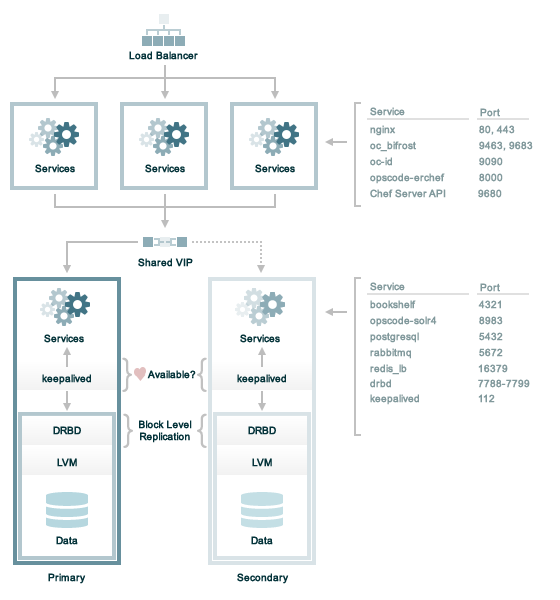
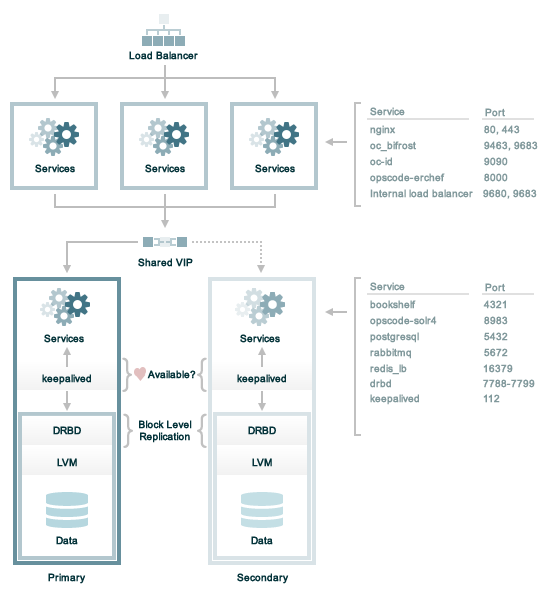
add diagrams; hook in tiered

Changed region(s): [[0.6679, 0.18, 0.9714, 0.33], [0.85, 0.45, 0.9714, 0.69]]

diff --git a/chef_master/source/server_firewalls_and_ports.rst b/chef_master/source/server_firewalls_and_ports.rst
@@ -8,11 +8,19 @@ Firewalls and Ports
 
 Standalone
 =====================================================
+The following sections describe the ports that are required by the |chef server| in a standalone configuration:
+
+.. image:: ../../images/chef_server_ports_standalone.png
+
+.. include:: ../../includes_server_firewalls_and_ports/includes_server_firewalls_and_ports_loopback.rst
+
 .. include:: ../../includes_server_firewalls_and_ports/includes_server_firewalls_and_ports_standalone.rst
 
 High Availability
 =====================================================
-The following sections describe the ports that are required by the |chef server| in a high availability configuration.
+The following sections describe the ports that are required by the |chef server| in a high availability configuration that is running |drbd| and |keepalived| to manage the active/passive backend servers:
+
+.. image:: ../../images/chef_server_ports_ha_drbd.png
 
 .. include:: ../../includes_server_firewalls_and_ports/includes_server_firewalls_and_ports_loopback.rst
 
@@ -24,6 +32,18 @@ Back End
 -----------------------------------------------------
 .. include:: ../../includes_server_firewalls_and_ports/includes_server_firewalls_and_ports_be.rst
 
-Loopback Interface
------------------------------------------------------
+Tiered
+=====================================================
+The following sections describe the ports that are required by the |chef server| in a tiered configuration:
+
+.. image:: ../../images/chef_server_ports_tiered.png
+
 .. include:: ../../includes_server_firewalls_and_ports/includes_server_firewalls_and_ports_loopback.rst
+
+Front End
+-----------------------------------------------------
+.. include:: ../../includes_server_firewalls_and_ports/includes_server_firewalls_and_ports_fe.rst
+
+Back End
+-----------------------------------------------------
+.. include:: ../../includes_server_firewalls_and_ports/includes_server_firewalls_and_ports_tiered.rst

diff --git a/includes_server_firewalls_and_ports/includes_server_firewalls_and_ports_tiered.rst b/includes_server_firewalls_and_ports/includes_server_firewalls_and_ports_tiered.rst
@@ -1,7 +1,7 @@
 .. The contents of this file are included in multiple topics.
 .. This file should not be changed in a way that hinders its ability to appear in multiple documentation sets.
 
-For back-end servers in an |chef server| installation:
+For back-end servers in a tired |chef server| installation:
 
 .. list-table::
    :widths: 60 420
